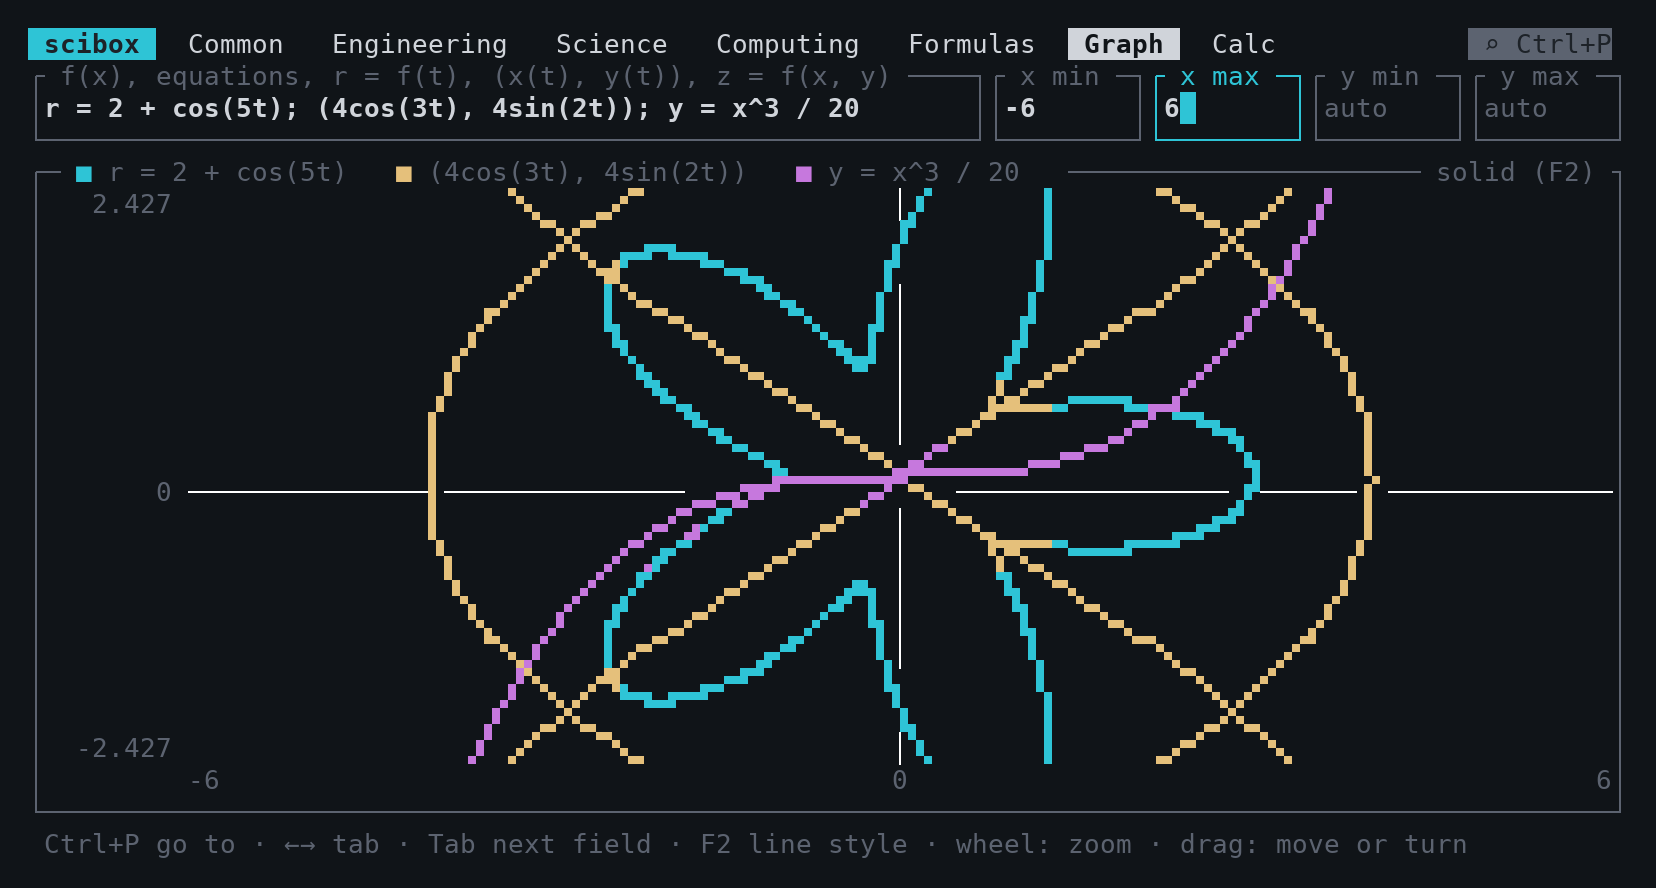
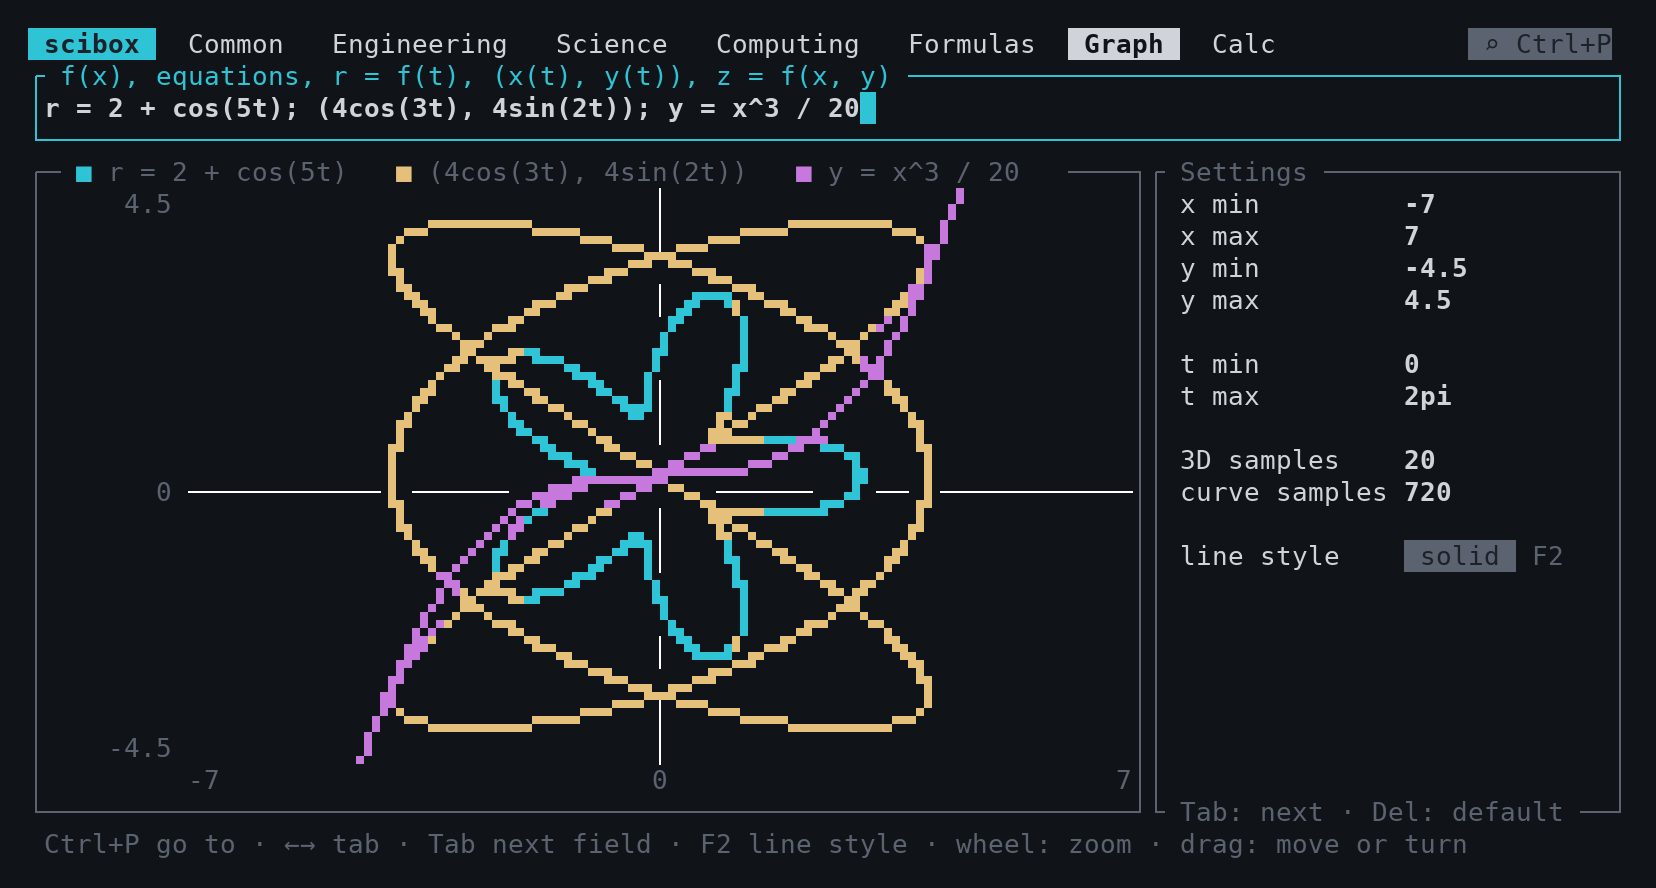
Graph: settings sidebar (ranges, t range, samples, line style); fix 3D drag direction

diff --git a/src/graph.rs b/src/graph.rs
@@ -134,39 +134,97 @@ fn short(v: f64) -> String {
     }
 }
 
+/// The settings in the sidebar: the label and the default text. Setting `k` is `app.graph[k + 1]`.
+pub const SETTINGS: [(&str, &str); 8] = [
+    ("x min", "-10"),
+    ("x max", "10"),
+    ("y min", ""),
+    ("y max", ""),
+    ("t min", "0"),
+    ("t max", "2pi"),
+    ("3D samples", "20"),
+    ("curve samples", "720"),
+];
+/// The sidebar row of each setting. The empty rows separate the groups.
+const SETTING_ROWS: [u16; 8] = [0, 1, 2, 3, 5, 6, 8, 9];
+const STYLE_ROW: u16 = 11;
+
+/// The value of a setting, or `default` if the text is empty or not a number.
+fn setting(app: &App, k: usize, default: f64) -> f64 {
+    calc::eval(&app.graph[k + 1], &app.ctx)
+        .ok()
+        .filter(|v| v.is_finite())
+        .unwrap_or(default)
+}
+
 pub fn draw(f: &mut Frame, app: &mut App, area: Rect) {
-    let [fields, chart_area] =
+    let [input_area, body] =
         Layout::vertical([Constraint::Length(3), Constraint::Fill(1)]).areas(area);
-    let field_areas: [Rect; 5] = Layout::horizontal([
-        Constraint::Fill(1),
-        Constraint::Length(10),
-        Constraint::Length(10),
-        Constraint::Length(10),
-        Constraint::Length(10),
-    ])
-    .areas(fields);
-    let titles = [
-        " f(x), equations, r = f(t), (x(t), y(t)), z = f(x, y) ",
-        " x min ",
-        " x max ",
-        " y min ",
-        " y max ",
-    ];
+    let [chart_area, sidebar] =
+        Layout::horizontal([Constraint::Fill(1), Constraint::Length(30)]).areas(body);
     app.areas.panes = Default::default();
     app.areas.fields.clear();
-    for (i, (r, title)) in field_areas.iter().zip(titles).enumerate() {
-        let focused = app.focus == i;
-        let line = if i >= 3 && app.graph[i].is_empty() && !focused {
-            Line::from("auto").dark_gray()
-        } else {
-            ui::input_line(&app.graph[i], focused)
+
+    // The input of the items
+    let title = " f(x), equations, r = f(t), (x(t), y(t)), z = f(x, y) ";
+    let focused = app.focus == 0;
+    let p = Paragraph::new(ui::input_line(&app.graph[0], focused)).block(ui::block(title, focused));
+    f.render_widget(p, input_area);
+    app.areas.fields.push(input_area);
+
+    // The sidebar: one row for each setting, then the line style.
+    let side_block = ui::block(" Settings ", app.focus > 0)
+        .title_bottom(Line::from(" Tab: next · Del: default ").dark_gray());
+    let inner = side_block.inner(sidebar);
+    f.render_widget(side_block, sidebar);
+    for (k, ((label, _), row)) in SETTINGS.iter().zip(SETTING_ROWS).enumerate() {
+        let i = k + 1;
+        let r = Rect {
+            y: inner.y + row,
+            height: 1,
+            ..inner
         };
-        f.render_widget(Paragraph::new(line).block(ui::block(title, focused)), *r);
-        app.areas.fields.push(*r);
+        let focused = app.focus == i;
+        let text = &app.graph[i];
+        let value = if text.is_empty() && !focused {
+            let auto = if i == 3 || i == 4 { "auto" } else { "default" };
+            Span::from(auto).dark_gray()
+        } else if text.is_empty() || calc::eval(text, &app.ctx).is_ok() {
+            Span::from(text.as_str()).bold()
+        } else {
+            Span::from(text.as_str()).red()
+        };
+        let label = Span::from(format!(" {label:<14}"));
+        let mut spans = vec![
+            if focused {
+                label.fg(ui::ACCENT).bold()
+            } else {
+                label
+            },
+            value,
+        ];
+        if focused {
+            spans.push(Span::from("█").fg(ui::ACCENT));
+        }
+        f.render_widget(Line::from(spans), r);
+        app.areas.fields.push(r);
     }
+    let r = Rect {
+        y: inner.y + STYLE_ROW,
+        height: 1,
+        ..inner
+    };
+    let style = Line::from(vec![
+        Span::from(format!(" {:<14}", "line style")),
+        Span::from(format!(" {} ", MARKERS[app.marker].1))
+            .black()
+            .on_dark_gray(),
+        Span::from(" F2").dark_gray(),
+    ]);
+    f.render_widget(style, r);
+    app.areas.style = r;
 
     let items = parse(&app.graph[0]);
-    let style = MARKERS[app.marker];
     // The title shows each item in the color of its curve.
     let mut title = vec![Span::from(" ")];
     for (i, (text, item)) in items.iter().enumerate() {
@@ -178,11 +236,7 @@ pub fn draw(f: &mut Frame, app: &mut App, area: Rect) {
         title.push(Span::from("■ ").fg(color));
         title.push(Span::from(format!("{text}   ")));
     }
-    let mut chart_block = ui::block("", false).title(Line::from(title)).title(
-        Line::from(format!(" {} (F2) ", style.1))
-            .right_aligned()
-            .dark_gray(),
-    );
+    let mut chart_block = ui::block("", false).title(Line::from(title));
     if let Some(e) = items.iter().find_map(|(_, i)| i.as_ref().err()) {
         chart_block = chart_block.title_bottom(Line::from(format!(" {e} ")).red());
     }
@@ -269,7 +323,11 @@ fn draw_2d(
     // Make the polylines (functions, polar and parametric curves) and the points (equations).
     let mut lines: Vec<(Color, Vec<Vec<Point>>)> = Vec::new();
     let mut points: Vec<(Color, Vec<(f64, f64)>)> = Vec::new();
-    let ts: Vec<f64> = (0..=720).map(|k| TAU * k as f64 / 720.0).collect();
+    let (t0, t1) = (setting(app, 4, 0.0), setting(app, 5, TAU));
+    let m = (setting(app, 7, 720.0).round() as usize).clamp(10, 100_000);
+    let ts: Vec<f64> = (0..=m)
+        .map(|k| t0 + (t1 - t0) * k as f64 / m as f64)
+        .collect();
     for (i, (_, item)) in items.iter().enumerate() {
         let Ok(item) = item else { continue };
         let color = CURVES[i % CURVES.len()];
@@ -421,7 +479,7 @@ fn draw_3d(
 ) {
     let [area, info_row] =
         Layout::vertical([Constraint::Fill(1), Constraint::Length(1)]).areas(inner);
-    let n = 20;
+    let n = (setting(app, 6, 20.0).round() as usize).clamp(2, 200);
     let ans = app.ctx.ans;
     let z: Vec<Vec<Option<f64>>> = (0..=n)
         .map(|i| {

diff --git a/src/main.rs b/src/main.rs
@@ -53,6 +53,8 @@ pub struct Areas {
     pub fields: Vec<Rect>,
     /// The plot area of the graph.
     pub chart: Rect,
+    /// The line style row of the graph sidebar.
+    pub style: Rect,
     pub keys: Vec<Rect>,
     /// The inner area of the palette. The first line is the query, the other lines are the list.
     pub palette: Rect,
@@ -71,8 +73,8 @@ pub struct App {
     pub unknown: usize,
     /// The formula variables that the user changed, the most recent last.
     edited: Vec<usize>,
-    /// Graph: the functions, x min, x max, y min, y max.
-    pub graph: [String; 5],
+    /// Graph: the items, then the settings of the sidebar (see `graph::SETTINGS`).
+    pub graph: [String; 9],
     /// The graph line style: an index in `graph::MARKERS`.
     pub marker: usize,
     /// The 3D view angles (yaw, pitch) in radians.
@@ -105,13 +107,10 @@ impl App {
             fin: Vec::new(),
             unknown: 0,
             edited: Vec::new(),
-            graph: [
-                "2sin(x); x^2 + y^2 = 9; x = 6".into(),
-                "-10".into(),
-                "10".into(),
-                String::new(),
-                String::new(),
-            ],
+            graph: std::array::from_fn(|i| match i {
+                0 => "2sin(x); x^2 + y^2 = 9; x = 6".into(),
+                i => graph::SETTINGS[i - 1].1.into(),
+            }),
             marker: 0,
             view: (0.6, 0.6),
             y_shown: (-1.0, 1.0),
@@ -161,7 +160,7 @@ impl App {
 
     /// The number of panes (or input fields) that can have the focus.
     fn pane_count(&self) -> usize {
-        if self.kind() == Kind::Graph { 5 } else { 3 }
+        if self.kind() == Kind::Graph { 9 } else { 3 }
     }
 
     /// The number of rows in a pane.
@@ -344,7 +343,7 @@ impl App {
                 self.focus = (self.focus + self.pane_count() - 1) % self.pane_count()
             }
             KeyCode::Up if kind == Kind::Graph => self.focus = self.focus.saturating_sub(1),
-            KeyCode::Down if kind == Kind::Graph => self.focus = (self.focus + 1).min(4),
+            KeyCode::Down if kind == Kind::Graph => self.focus = (self.focus + 1).min(8),
             KeyCode::Up => self.move_sel(self.focus, -1),
             KeyCode::Down => self.move_sel(self.focus, 1),
             KeyCode::Enter => match kind {
@@ -514,6 +513,8 @@ impl App {
             Kind::Graph => {
                 if let Some(i) = self.areas.fields.iter().position(|r| r.contains(pos)) {
                     self.focus = i;
+                } else if self.areas.style.contains(pos) {
+                    self.marker = (self.marker + 1) % graph::MARKERS.len();
                 } else if self.areas.chart.contains(pos) {
                     self.drag = Some((pos.x, pos.y));
                 }
@@ -577,7 +578,7 @@ impl App {
         let (dx, dy) = (col as f64 - c0 as f64, row as f64 - r0 as f64);
         self.drag = Some((col, row));
         if graph::is_3d(&self.graph[0]) {
-            self.view.0 -= dx * 0.08;
+            self.view.0 += dx * 0.08;
             self.view.1 = (self.view.1 + dy * 0.08).clamp(0.0, std::f64::consts::FRAC_PI_2);
             return;
         }

diff --git a/src/ui.rs b/src/ui.rs
@@ -8,7 +8,7 @@ use ratatui::style::{Color, Modifier, Style, Stylize};
 use ratatui::text::{Line, Span};
 use ratatui::widgets::{Block, Clear, List, ListItem, Paragraph};
 
-const ACCENT: Color = Color::Cyan;
+pub const ACCENT: Color = Color::Cyan;
 
 pub fn draw(f: &mut Frame, app: &mut App) {
     let [top, body, help] = Layout::vertical([

diff --git a/README.md b/README.md
@@ -87,16 +87,27 @@ For example, the formula "dBm to watt" also converts watts to dBm.
 ### Graph tab
 
 1. Type one or more items. Use `;` between the items.
-2. Type the minimum and the maximum value of x.
-3. Type the y range, or keep the y fields empty. An empty y field gives an automatic range.
+2. Set the ranges and the samples in the "Settings" sidebar (see the table below).
 
 | Item | Examples |
 | --- | --- |
 | Function | `sin(x)`, `y = x^3 / 20` |
 | Equation in x and y | `x = 2`, `x^2 + y^2 = 9`, `y^2 = x^3 - x` |
-| Polar curve (t from 0 to 2π) | `r = 2 + cos(5t)` |
-| Parametric curve (t from 0 to 2π) | `(4cos(3t), 4sin(2t))` |
+| Polar curve | `r = 2 + cos(5t)` |
+| Parametric curve | `(4cos(3t), 4sin(2t))` |
 | 3D surface | `z = sin(x) * cos(y)` |
+
+| Setting | Function | Default |
+| --- | --- | --- |
+| x min, x max | The x range. For a 3D surface, the x range of the grid. | -10, 10 |
+| y min, y max | The y range. If a field is empty, scibox calculates the range. | auto |
+| t min, t max | The range of t for the polar and parametric curves. | 0, 2pi |
+| 3D samples | The number of grid points on each axis of a 3D surface (2 to 200). | 20 |
+| curve samples | The number of points on a polar or parametric curve (10 to 100000). | 720 |
+| line style | Click it or press F2 to change it. | solid |
+
+Press Tab to go to the next setting. Press Delete to clear a setting and use its default value.
+All the settings accept expressions, for example `2pi`.
 
 Turn the mouse wheel on the graph to zoom. Drag the graph to move it.
 For a 3D surface, drag the graph to turn the view.
